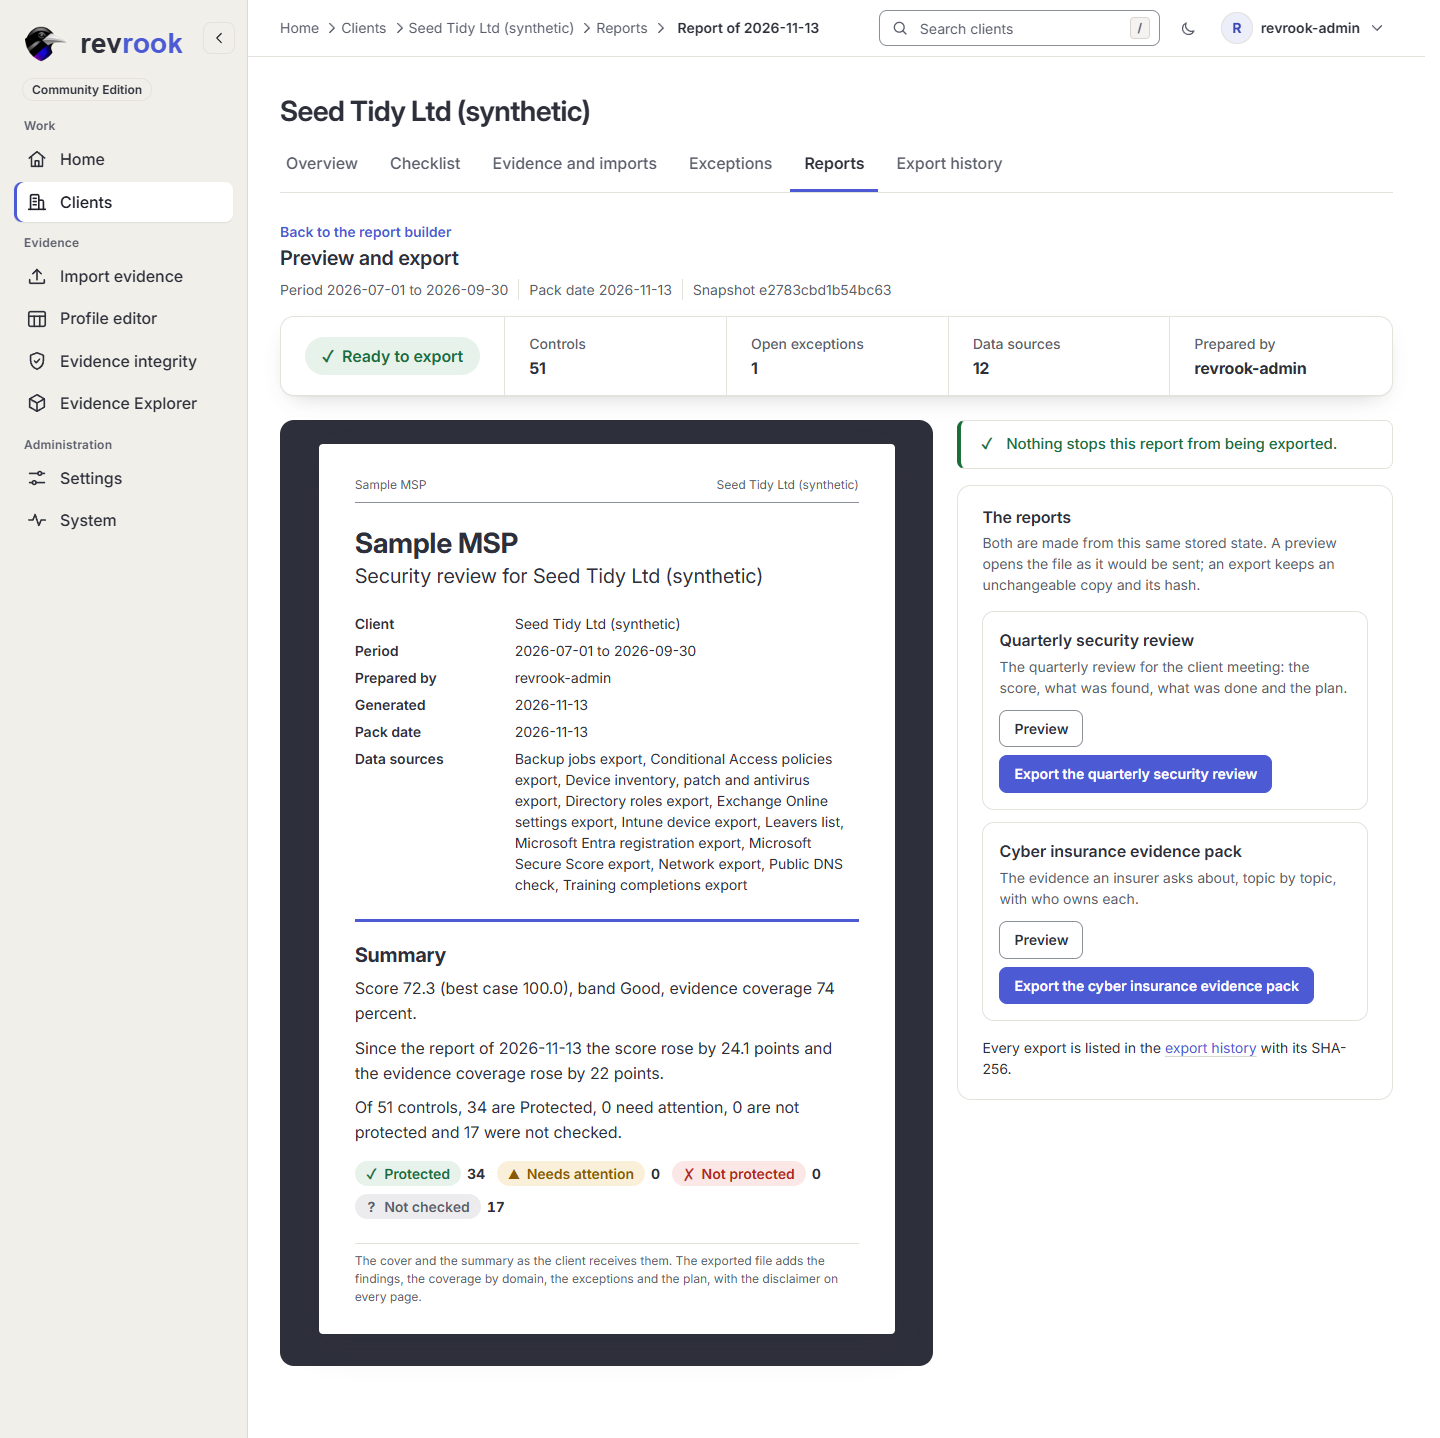
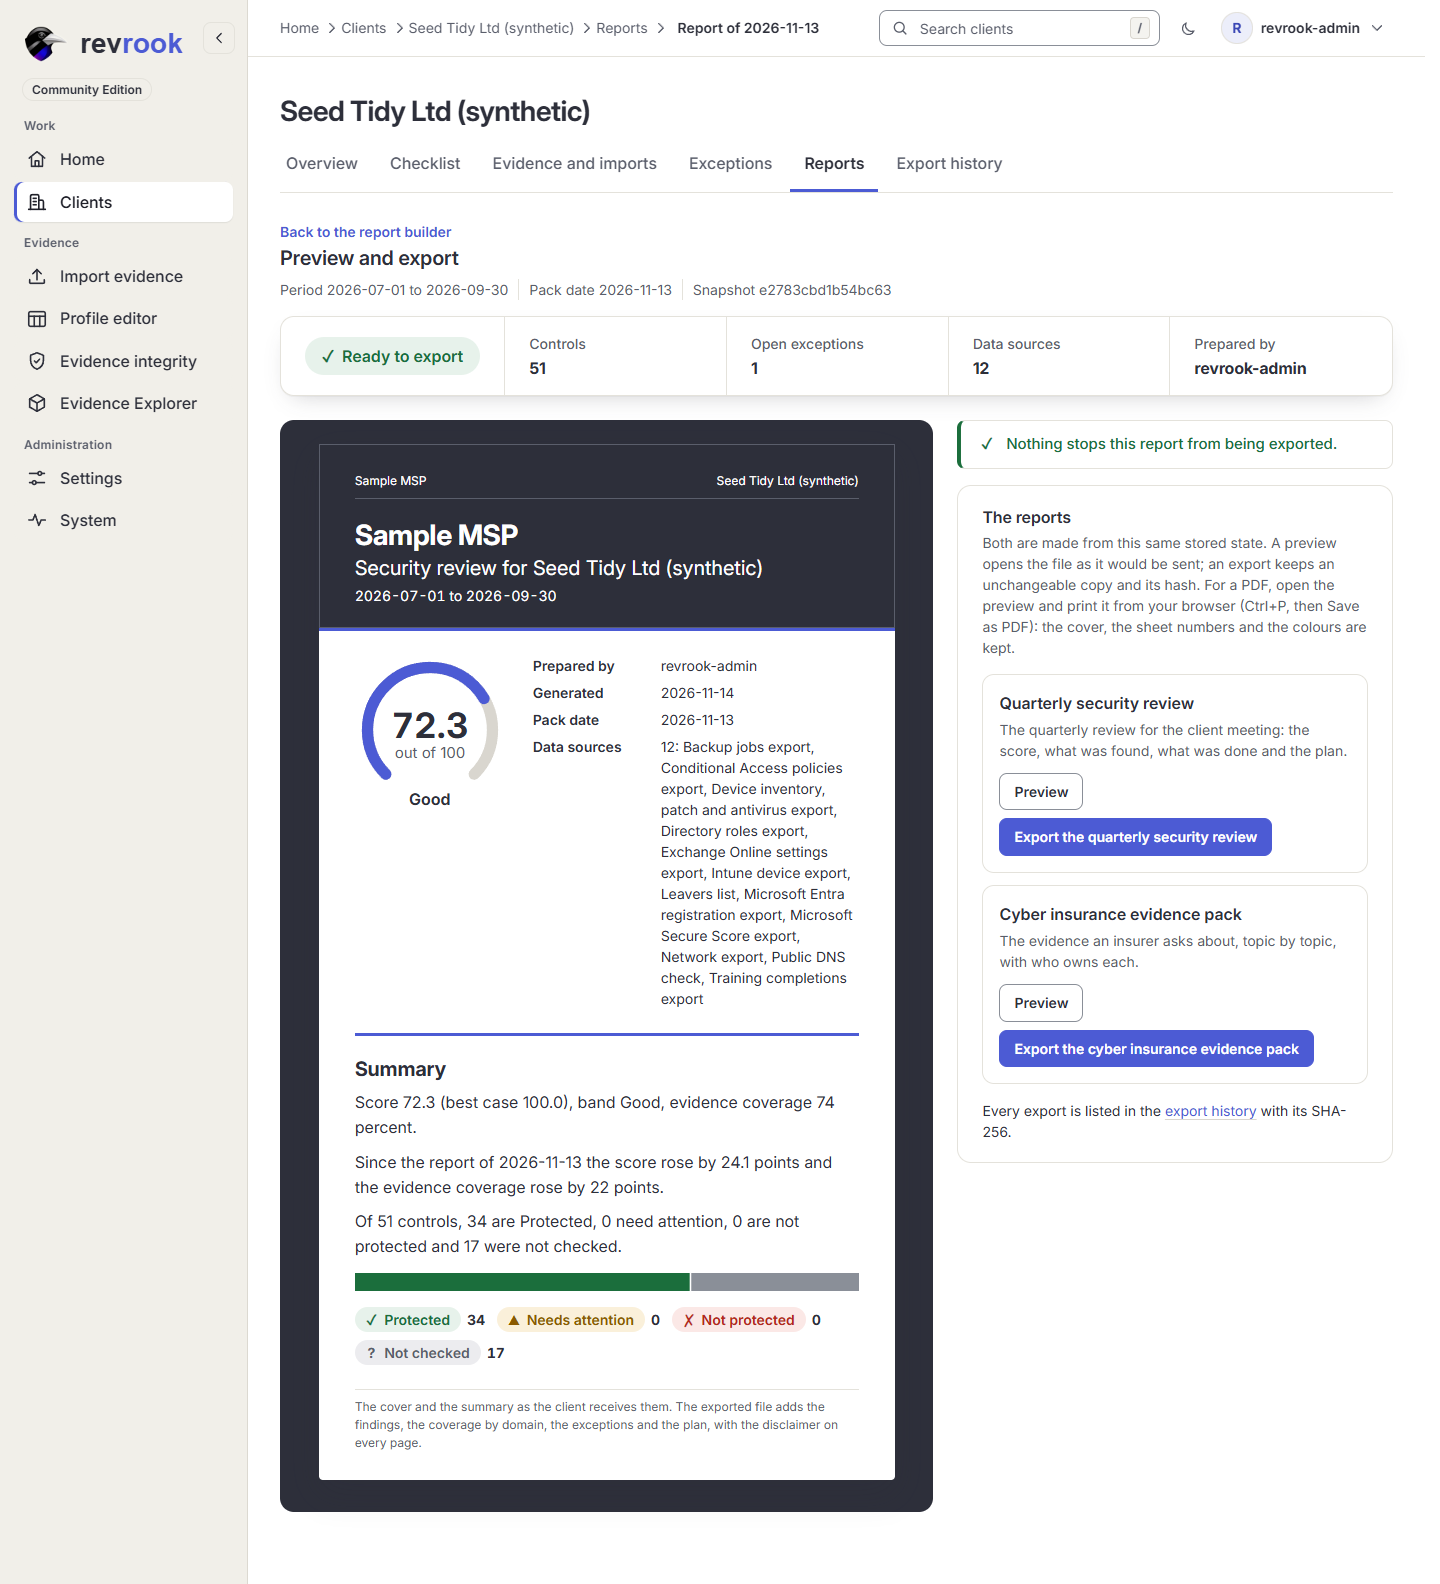
docs: the picture of Preview and export, captured again on Development
The page draws its paper sheet as the report is since #141, so its guide
picture showed an earlier look. It was captured again on the Development
deployment of af35cfa (report 18 of Seed Tidy Ltd (synthetic)). The other 61
pictures are unchanged. The manifest and the picture README record it.

diff --git a/CHANGELOG.md b/CHANGELOG.md
@@ -43,6 +43,7 @@ No version has been released: there is no stable tag, no stable GitHub release a
 - A new **Account** page: display name, a picture (PNG, JPEG or WebP up to 512 KB, recognised by its bytes), the password (the current one first) and the theme. Migration 0007 adds `display_name`, `avatar`, `avatar_type` and `avatar_version` to `app_user`; every change is written to the audit trail without its value.
 - The 3D scenes are modelled anew: Home shows each client as an office on a street (floors for the score, width for the company size from its Entra users or devices, a roof light for the band, a building in scaffolding for too little evidence, an empty lot for none, a red window per control that needs work), with a road, pavements, trees and lamps and soft shadows. The Evidence Explorer draws each export as an office block, its beams faint until a block or a tile is chosen; the domain keep of a client draws not checked as glass. No scene uses wireframes any more.
 - Shorter text: one line under each page title; Import evidence lists the supported exports as one compact card with the Microsoft 365 export script as a button; Home's Needs attention and Score over time are matching cards, and four client cards fit in a row.
+- The picture of **Preview and export** was captured again on 2026-11-14 on the Development site (commit `af35cfa`), so it shows the sheet drawn as the report is ([docs/images/README.md](docs/images/README.md)).
 - The picture of Settings and the four pictures of the rendered report were captured again on 2026-11-14 on the Development site (commit `56e697d`), so they show the logo block and the report as a document; [guide 6](docs/guides/06-reports-and-exports.md) describes the new report ([docs/images/README.md](docs/images/README.md)).
 - The 62 guide pictures were captured again on 2026-11-13 on the Development site (commit `0f705ca`), with the 3D view shown, so they show the revamped interface and the product as it is deployed ([docs/images/README.md](docs/images/README.md)).
 - The 26 guide pictures of Home, the clients list and the checklist were captured again on 2026-11-12 from Development (commit `38da74b`), so they show the shorter pages ([docs/images/README.md](docs/images/README.md)).

diff --git a/docs/images/README.md b/docs/images/README.md
@@ -84,7 +84,7 @@ A full-page capture is used only where the rail does not need to reach the foot 
 sign-in page, the narrow layouts, the rendered report). The manifest names the frame
 of each picture.
 
-### Five pictures of 2026-11-14
+### Six pictures of 2026-11-14
 
 On 2026-11-14 at 04:16 UTC five pictures were captured again, on the Development
 deployment of `56e697d499efc101c1013079f32b0594c5fc97e4` (the merge of pull request #139, image
@@ -103,6 +103,13 @@ history still show Seed Tidy Ltd (synthetic). The other 57 pictures are those of
 Development that day (19 and 20), a made-up test logo was uploaded on Settings and
 removed again while pull request #138 was checked (no logo is saved there, as the
 picture shows), and the theme of the test account was switched to Light and back.
+
+At 16:17 UTC the same day a sixth picture followed, `report-preview-1440.png`, on the
+Development deployment of `af35cfa59234ffafd435deaeecc0058fb2ab18de` (the merge of pull request
+#141, image `sha256:51ec1759636f6c8d7c3f8c6716a98c497804ce91813fe27e7223c3efdb0d3783`,
+CI run 43613972418): the page **Preview and export** of report 18 of Seed Tidy Ltd
+(synthetic), whose paper sheet is now drawn as the file is. Only the theme of the test
+account was switched for it, and put back.
 
 ## Kept out of the pictures
 

diff --git a/docs/guides/README.md b/docs/guides/README.md
@@ -5,8 +5,8 @@ in the order a new installation meets them. Every picture is a live capture, tak
 2026-11-13, of the Development site running commit `0f705cace6f1d91c950693a2f1d67552904a2744`
 (the merge of pull request #135), with the 3D view shown and the synthetic test data of
 that installation (see the [capture manifest](../images/README.md)); the picture of
-Settings and the four pictures of the rendered report were taken again on 2026-11-14,
-on commit `56e697d4`. Pictures at 1440 px are the desktop view; pictures at 768 px
+Settings, the four pictures of the rendered report and the picture of Preview and export
+were taken again on 2026-11-14, on commits `56e697d4` and `af35cfa5`. Pictures at 1440 px are the desktop view; pictures at 768 px
 and 390 px are labelled as tablet and phone views in their captions. The pictures
 are in [docs/images](../images/README.md) with a capture manifest (file, SHA-256, page,
 viewport, theme, capture time and the guide that uses each). What the output is, and is
